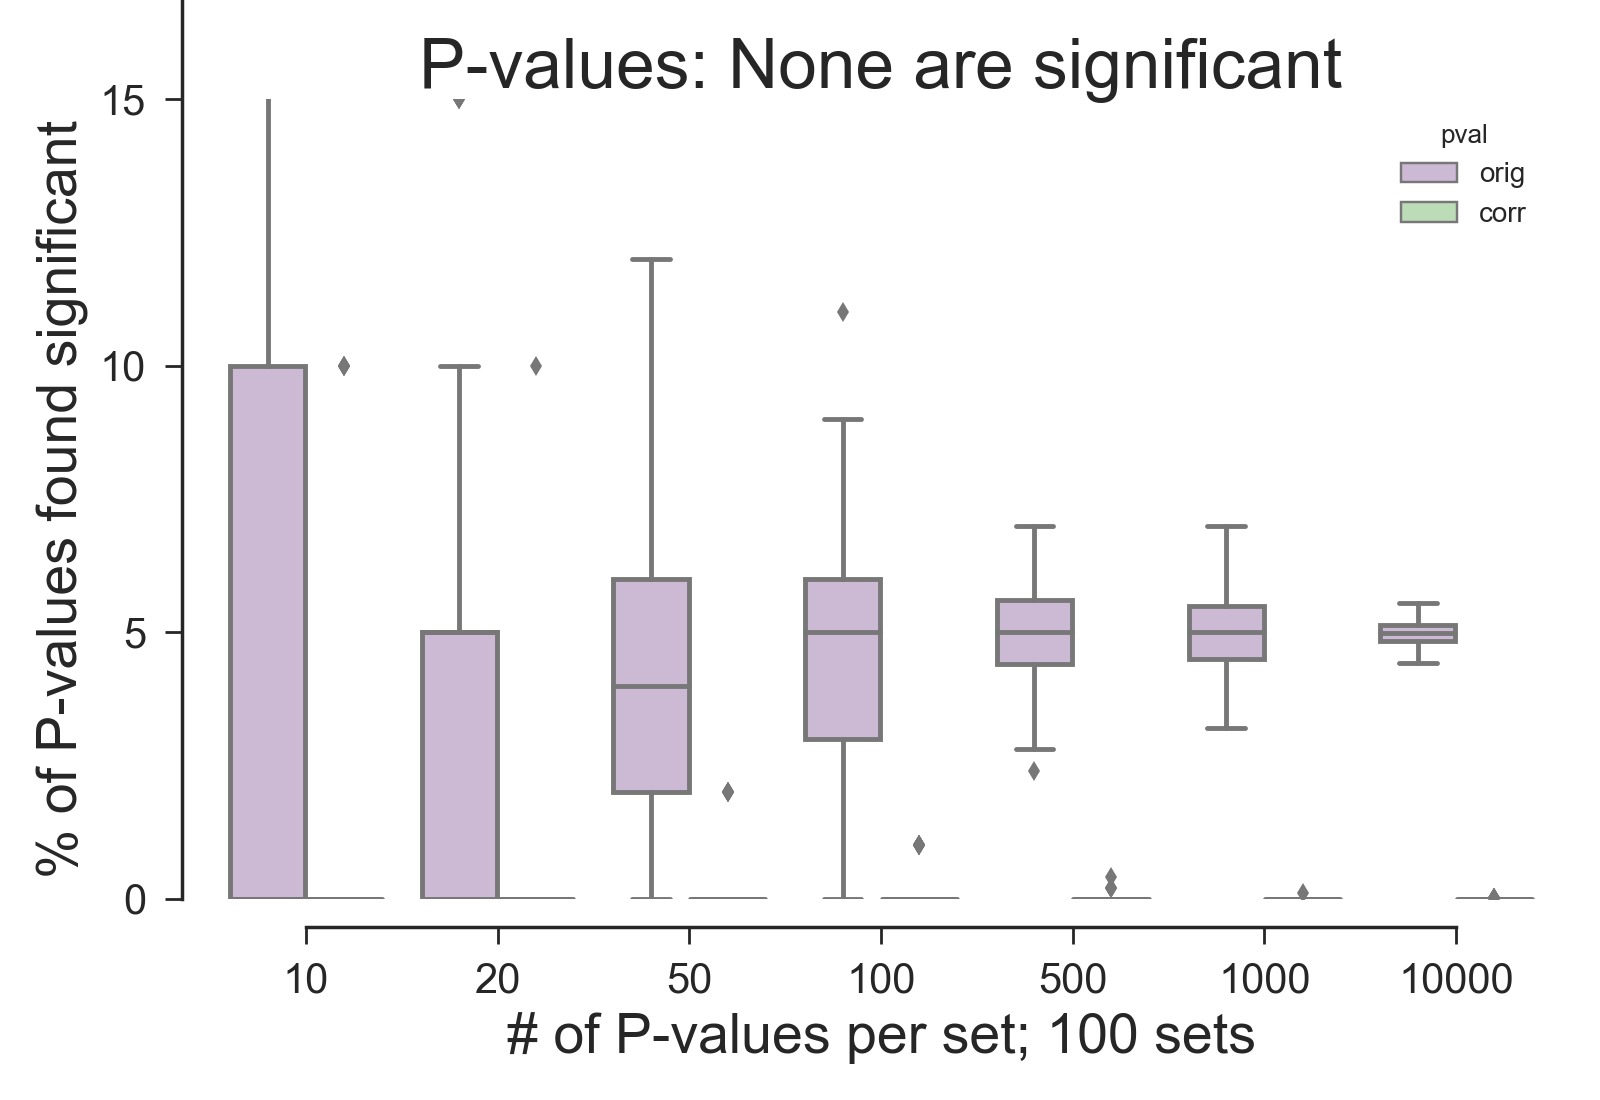
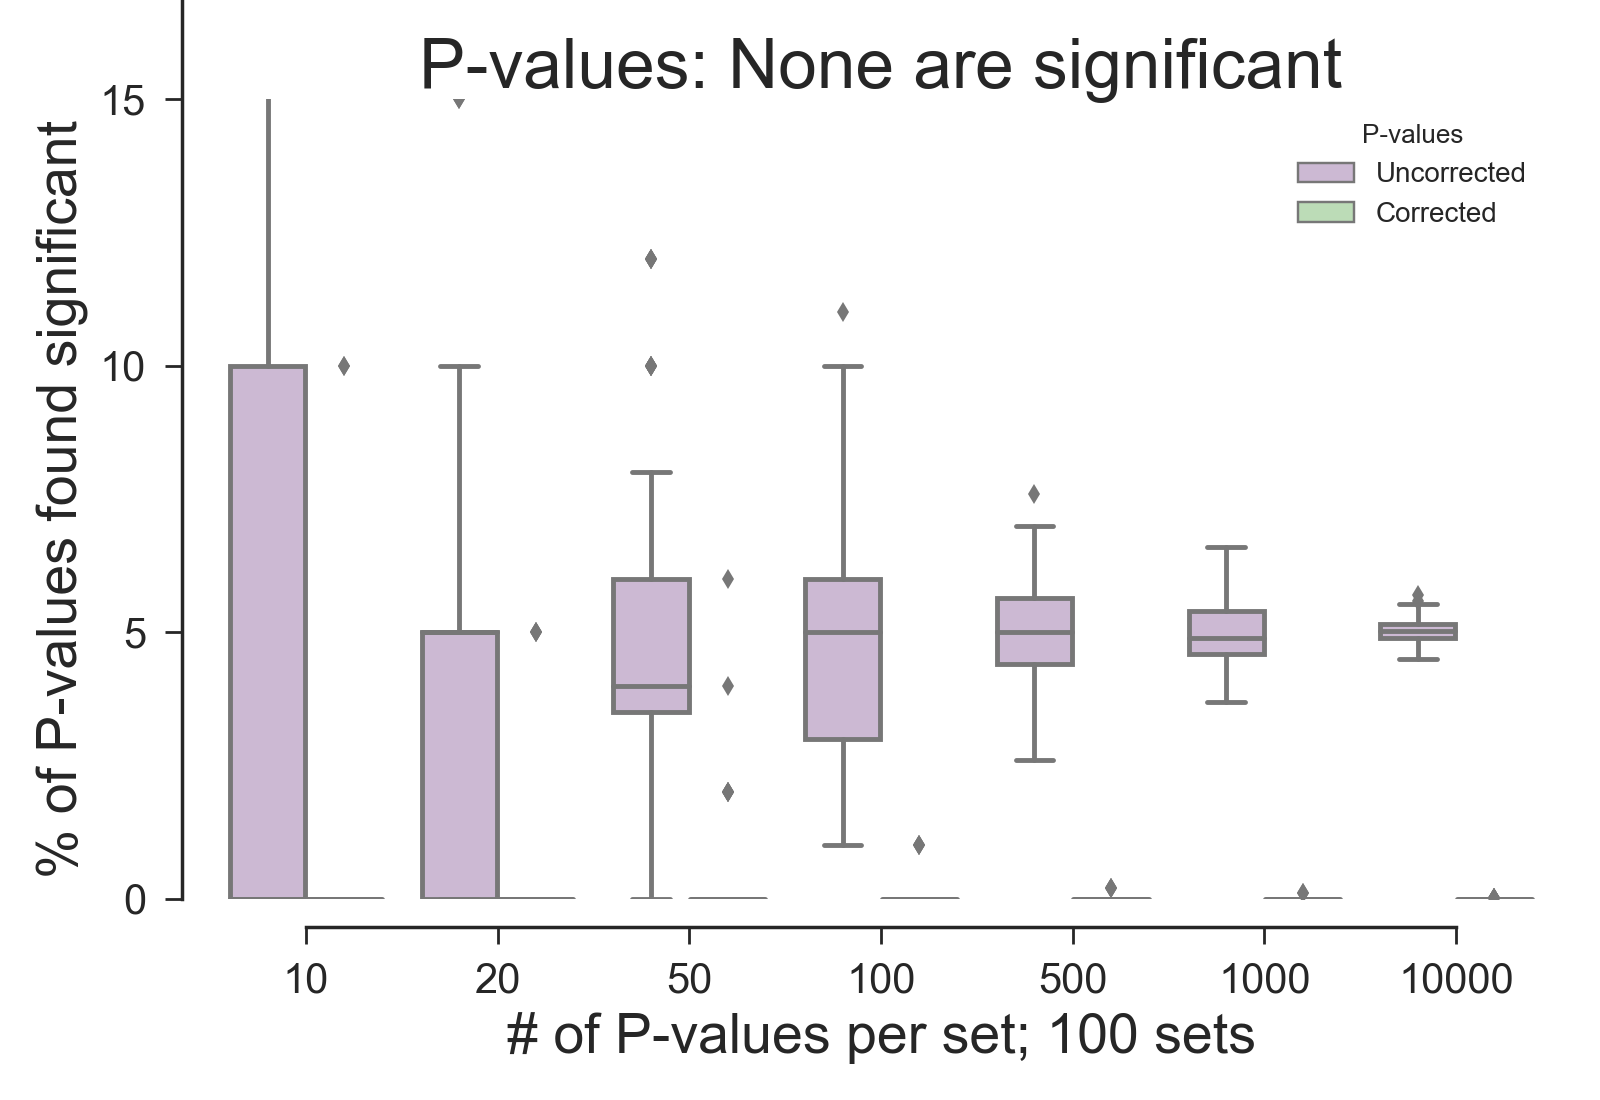
Started filling out README

diff --git a/src/pkgsim/plot_results.py b/src/pkgsim/plot_results.py
@@ -13,7 +13,7 @@ def wrpng_boxplot_sigs(params, numpvals_results, **kws):
     """Plot pvalues showing as significant."""
     dfrm = pd.DataFrame(get_percsig_dicts(params, numpvals_results))
     sns.set(style="ticks")
-    sns.boxplot(x="numpvals", y="perc_sig", hue="pval", data=dfrm, palette="PRGn")
+    sns.boxplot(x="numpvals", y="perc_sig", hue="P-values", data=dfrm, palette="PRGn")
     sns.despine(offset=10, trim=True)
     # Set the tick labels font
     # http://stackoverflow.com/questions/3899980/how-to-change-the-font-size-on-a-matplotlib-plot
@@ -40,8 +40,8 @@ def get_percsig_dicts(params, numpvals_results):
            alpha = params['alpha']
            perc_sig_orig = get_perc_sig(simset['pvals'], alpha)
            perc_sig_corr = get_perc_sig(simset['pvals_corr'], alpha)
-           tbl.append({'numpvals':num_pvals, 'pval':'orig', 'perc_sig':perc_sig_orig})
-           tbl.append({'numpvals':num_pvals, 'pval':'corr', 'perc_sig':perc_sig_corr})
+           tbl.append({'numpvals':num_pvals, 'P-values':'Uncorrected', 'perc_sig':perc_sig_orig})
+           tbl.append({'numpvals':num_pvals, 'P-values':'Corrected', 'perc_sig':perc_sig_corr})
     return tbl
 
 # Copyright (C) 2017, DV Klopfenstein. All rights reserved.

diff --git a/README.md b/README.md
@@ -1,8 +1,41 @@
-# Statistical Simulations 
+# Simulations of 
+
+  * [P-value simulations](#p-value-simulations)
+  * [Gene Ontology Enrichment Results (GOEA) simulations](#goea-simulations)
+
 
 ## P-value simulations
+We use simulations to confirm the vericity of the statistical results of Gene Ontology Enrichment Analyses.
+An alpha level of 0.05 is used for all simulations.    
+
+First, we do P-value and multiple-test correction simulations to show how results vary with:
+  * The number of P-values in one set    
+  * The number of sets of P-values in one sample    
+  * The number of P-values which have been set to be significant     
+
+Then, we do Gene Ontology Enrichment Analyses simulations    
+
+**Methods:**    
+Random P-values between 0.0 and 1.0 are generated using a uniform distribution.
+It is expected that 5% of the randomly generated P-values will appear to be significant (<0.05) by chance.
+We generate P-value sets in set sizes ranging from 10 P-values per set to 10,000 P-values per set.
 
 ### P-values chosen randomly, with none being significant
+Five percent of the randomly chosen uncorrected P-values are found to be significant, as expected.
+These are shown in rose.
+Upon doing multiple-test correction, practically no corrected P-values are found to be significant.
+These are shown in green, but are so small that they appear to be a horizontal line around zero.
 ![Random pvals w/no significance](doc/images/pvalues_sig00.png)
+
+### P-values chosen randomly: 5% are significant 
+TBD
+
+### P-values chosen randomly: 10% are significant 
+TBD
+
+### P-values chosen randomly: 50% are significant 
+
+## GOEA simulations    
+TBD
 
 Copyright (C) 2016-2017, DV Klopfenstein. All rights reserved.
